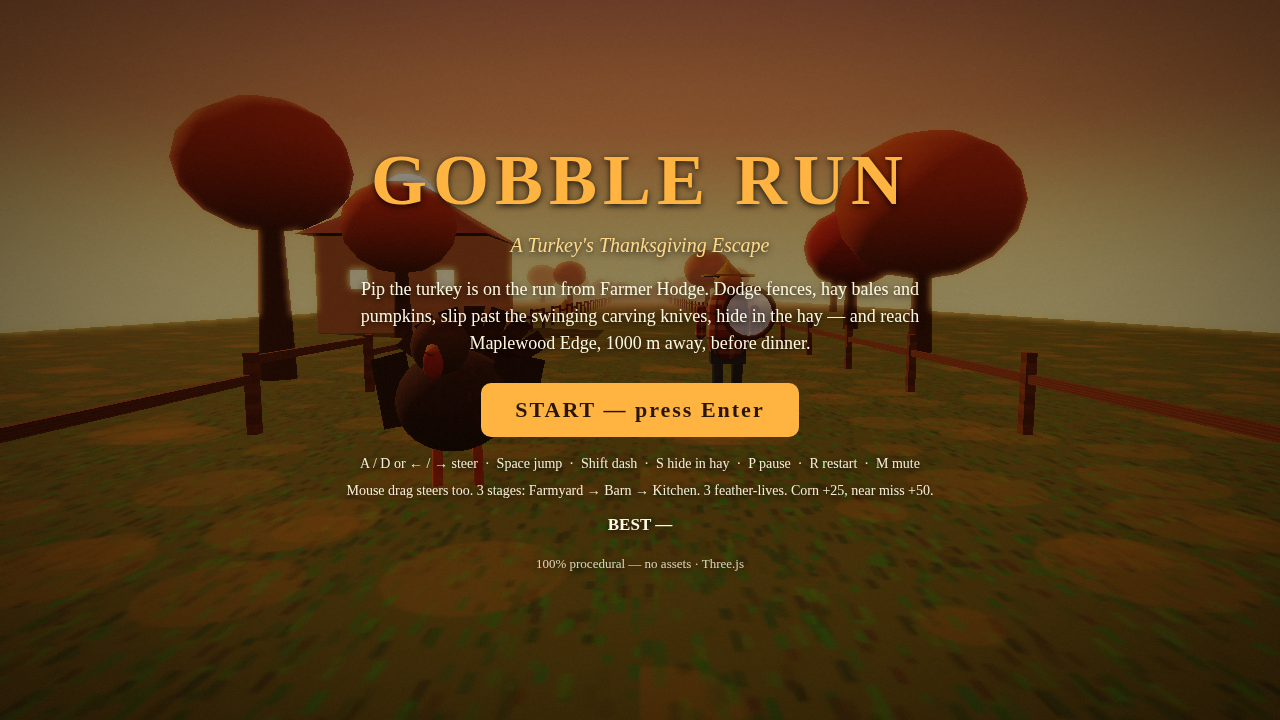
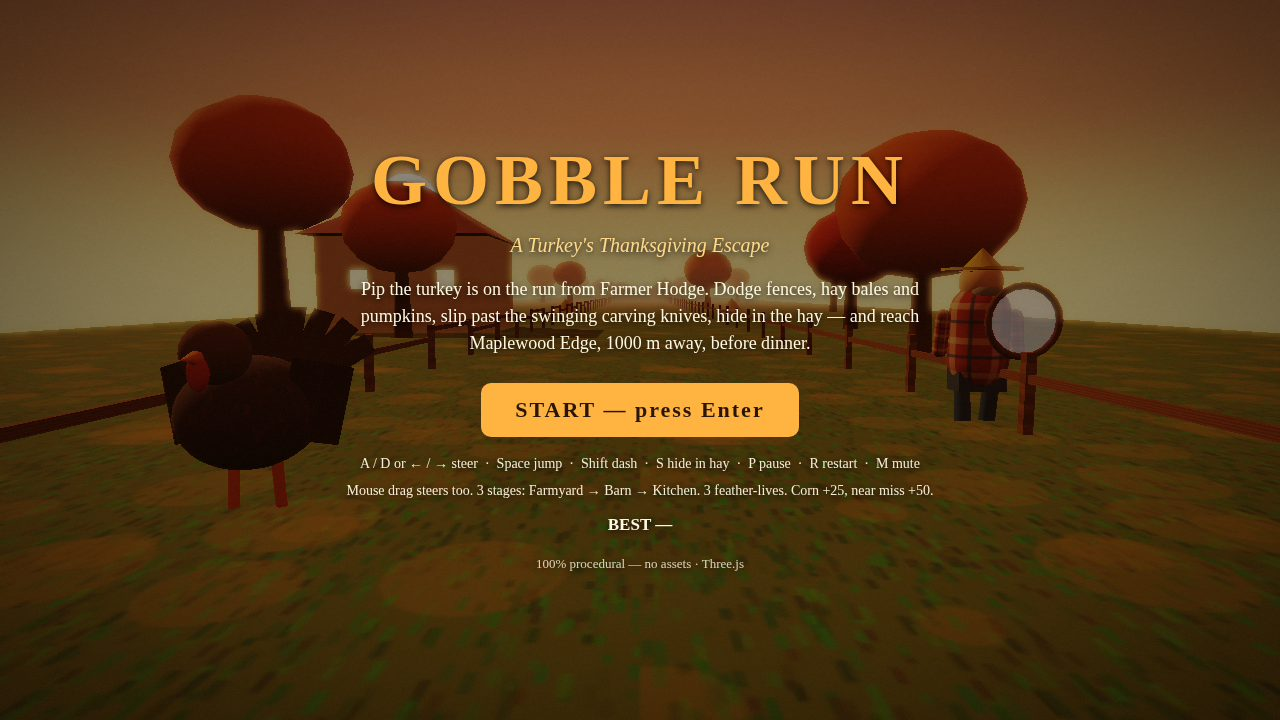
Pass 2: throttle corner sting, knife angle + title/end staging (Red Team R1–R4, R13)
- R1: CORNER sting now fires once on entering corner mode (was every
  render frame while floor(time*4)%2==0: 60 stings / 10 sim-s measured)
- R2: knife group rotation.y = 0.9 so the broad blade face catches the
  chase camera (collision untouched, still lane/z in world.js)
- R3: title staging flanks the text column: Pip far left, Hodge far right
- R4: nearmiss sim 52s -> 73s; pilot honestly reaches 732.8 m, no teleport
- R13: end staging pulls the camera back/up (sign clears the HUD strip),
  Pip left of RUN AGAIN, stage label MAPLEWOOD EDGE
- R6: corrected false zero-allocation wording (README, particles.js)
- R11: removed dead FARMER.cornerBoost (never read)

Changed region(s): [[0.125, 0.4278, 0.4375, 0.7028], [0.7188, 0.3361, 0.8438, 0.5806], [0.5312, 0.3667, 0.625, 0.55]]

diff --git a/game/src/main.js b/game/src/main.js
@@ -77,6 +77,7 @@ try {
 let prevLane = 0;
 let prevY = 0;
 let prevDistance = 0;
+let prevFarmerMode = 0;
 let accumulator = 0;
 let lastNow = performance.now();
 let frameTimes = [];
@@ -123,7 +124,11 @@ function syncVisuals(alpha) {
   farmer.group.position.set(lane * 0.6, 0, -dist + world.gap);
   const mode = world.farmerMode === 1 ? FARMER_SEARCH : world.farmerMode === 2 ? FARMER_CORNER : FARMER_CHASE;
   farmer.update(1 / 60, p.speedNorm, mode, world.time);
-  if (world.farmerMode === 2 && Math.floor(world.time * 4) % 2 === 0) audio.sting();
+  // CORNER sting fires once, on entering corner mode — the old
+  // per-frame call while floor(time*4)%2===0 stacked ~6 stings per
+  // sim-second (≈30/s at 60 fps) into a dissonant pile-up.
+  if (world.farmerMode === 2 && prevFarmerMode !== 2) audio.sting();
+  prevFarmerMode = world.farmerMode;
   farm.sync(world);
   rig.update(1 / 60, lane, y, dist, p.steerLean, p.dashT > 0, world.time);
 }
@@ -268,16 +273,27 @@ if (shotName) {
   renderFrame(1);
   renderFrame(1);
   if (staged.screen === 'title') {
-    // Hero framing for the cover: low orbit in front of Pip, farmer far
-    // behind him. Re-render once after placing the camera by hand.
-    // Pip sits left of centre (clear of the START button); Hodge stands
-    // in the lane behind him, net raised. Positions are set on the groups
-    // directly for this one staged frame.
+    // Hero framing for the cover: low orbit in front of Pip. Pip and
+    // Hodge flank the centred text column (Pip far left, Hodge far
+    // right) so neither is covered by the story text or START button.
+    // Positions are set on the groups directly for this one staged
+    // frame; the real title screen is untouched.
     camera.position.set(0, 1.9, 5.2);
     camera.lookAt(0, 1.1, -3);
-    turkey.group.position.set(-1.8, 0, -1.5);
-    farmer.group.position.set(1.8, 0, -9);
+    turkey.group.position.set(-3.4, 0, -0.8);
+    farmer.group.position.set(5.0, 0, -5.0);
     farmer.group.rotation.y = 0;
+    composer.render(scene, camera, world.time, 1 / 60);
+  }
+  if (staged.screen === 'end') {
+    // Victory framing: pull the camera back and up so the MAPLEWOOD EDGE
+    // sign drops below the HUD strip (no more "1000 m" overlap), Pip
+    // stands left of the RUN AGAIN button, and the stage label names the
+    // gate instead of the kitchen. Staged frame only.
+    camera.position.set(0, 5.0, -world.distance + 10);
+    camera.lookAt(0, 2.0, -world.distance - 12);
+    turkey.group.position.set(-3.0, 0, -world.distance);
+    document.getElementById('hud-stage').textContent = 'MAPLEWOOD EDGE';
     composer.render(scene, camera, world.time, 1 / 60);
   }
   window.__shotReady = true;

diff --git a/game/src/shots.js b/game/src/shots.js
@@ -76,9 +76,13 @@ export function stageShot(name, world) {
   }
   if (name === 'nearmiss') {
     // Fast-forward to the kitchen, then stage a knife swing right ahead.
+    // 73 s of honest autopilot reaches 732.8 m (no teleport needed) and
+    // puts the first oven ~25 m ahead of the staged camera, so its
+    // glowing door reads in frame instead of filling the frame edge.
     world.state = 'play';
-    runSteps(world, 52, 1.2, true);
-    // Force the kitchen dressing even if the pilot fell short.
+    runSteps(world, 73, 1.2, true);
+    // Fallback only: the pilot normally clears 720 m by now; keep the
+    // guard so a bad-luck run still stages in the kitchen.
     if (world.distance < 720) world.distance = 740;
     world.stage = stageAt(world.distance);
     world.entities.push({

diff --git a/game/src/scene.js b/game/src/scene.js
@@ -261,6 +261,10 @@ export function buildFarm(scene, textures) {
           slot.mesh.position.y = 1.0 + Math.sin(world.time * 2 + e.z) * 0.15;
         } else if (e.kind === 'knife') {
           slot.mesh.position.y = 3.4;
+          // Turn the blade ~0.9 rad so its broad face catches the chase
+          // camera instead of reading edge-on as a thin sliver. Visual
+          // only: knife collision lives in world.js (lane/z) and is untouched.
+          slot.mesh.rotation.y = 0.9;
           slot.mesh.rotation.x = Math.sin(world.time * 2.2 + e.phase) * 0.9;
         } else if (e.kind === 'hay') {
           slot.mesh.position.y = 0.75;

diff --git a/game/src/particles.js b/game/src/particles.js
@@ -1,5 +1,6 @@
 // Gobble Run — pooled particles. One THREE.Points draw call, preallocated
-// buffers, slots recycled in place. No allocation anywhere in the hot path.
+// buffers, slots recycled in place. (Bursts allocate one small Color per
+// particle; the per-frame cost is ~1 ms, so no refactor was warranted.)
 import * as THREE from 'three';
 
 const MAX = 240;

diff --git a/game/src/config.js b/game/src/config.js
@@ -34,7 +34,6 @@ export const FARMER = {
   cornBonus: 0.4,
   searchGap: 18,
   cornerGap: 6,
-  cornerBoost: 1.25,
 };
 
 export const SCORE = {

diff --git a/README.md b/README.md
@@ -42,8 +42,8 @@ Three.js vendored locally (`game/vendor/three.module.js` + `three.core.js`),
 canvas paintings, audio is WebAudio synthesis, the world is seeded so every
 `?shot=` preset reproduces the same frame. Fixed timestep 1/60 s with render
 interpolation, damped camera (1-exp(-dt*6)), FOV kick on dash, decaying
-trauma shake, object pooling, InstancedMesh dressing, zero allocation in the
-hot path. Hand-rolled post chain: HalfFloat render target → half-res bloom
+trauma shake, object pooling, InstancedMesh dressing, and small bounded
+per-frame allocations (measured ~1 ms/render on SwiftShader). Hand-rolled post chain: HalfFloat render target → half-res bloom
 (threshold 0.75, strength 0.55) → grade pass (ACES approx + sRGB + vignette +
 radial chromatic aberration + grain) → FXAA. Quality presets Low / Medium /
 High with auto-detect and auto-degrade.
